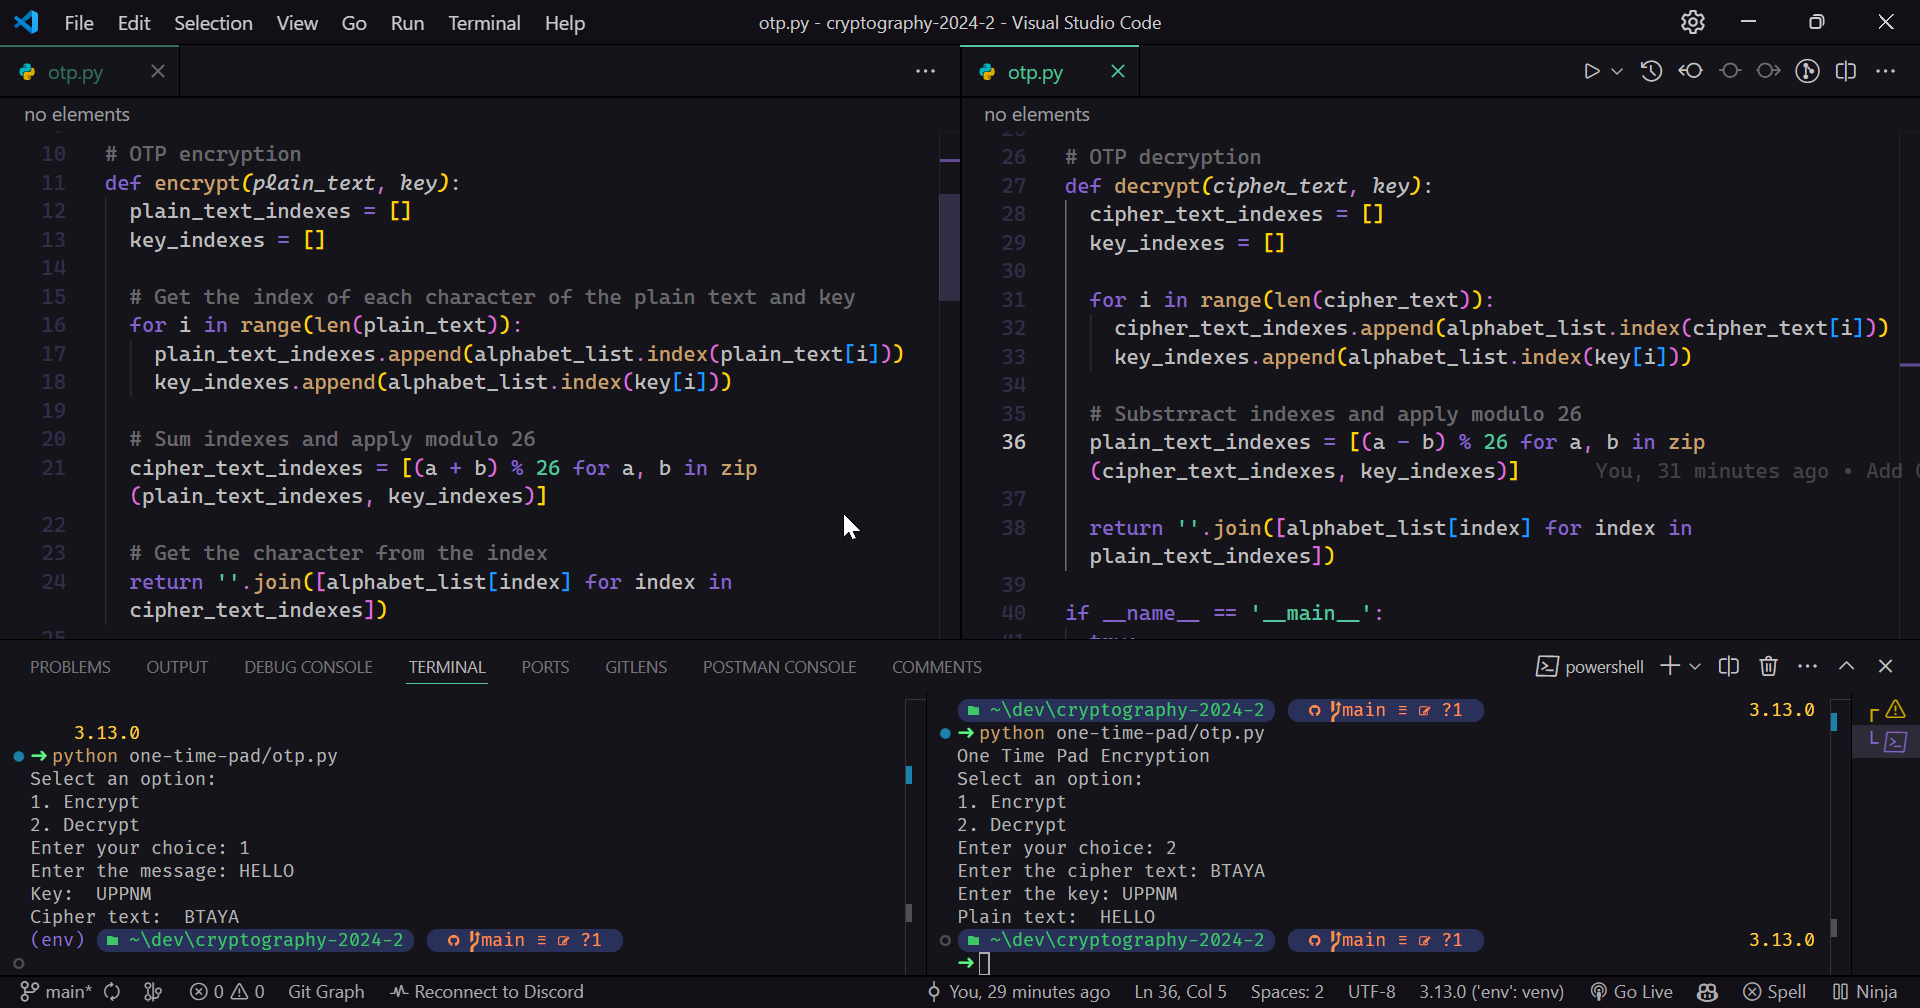
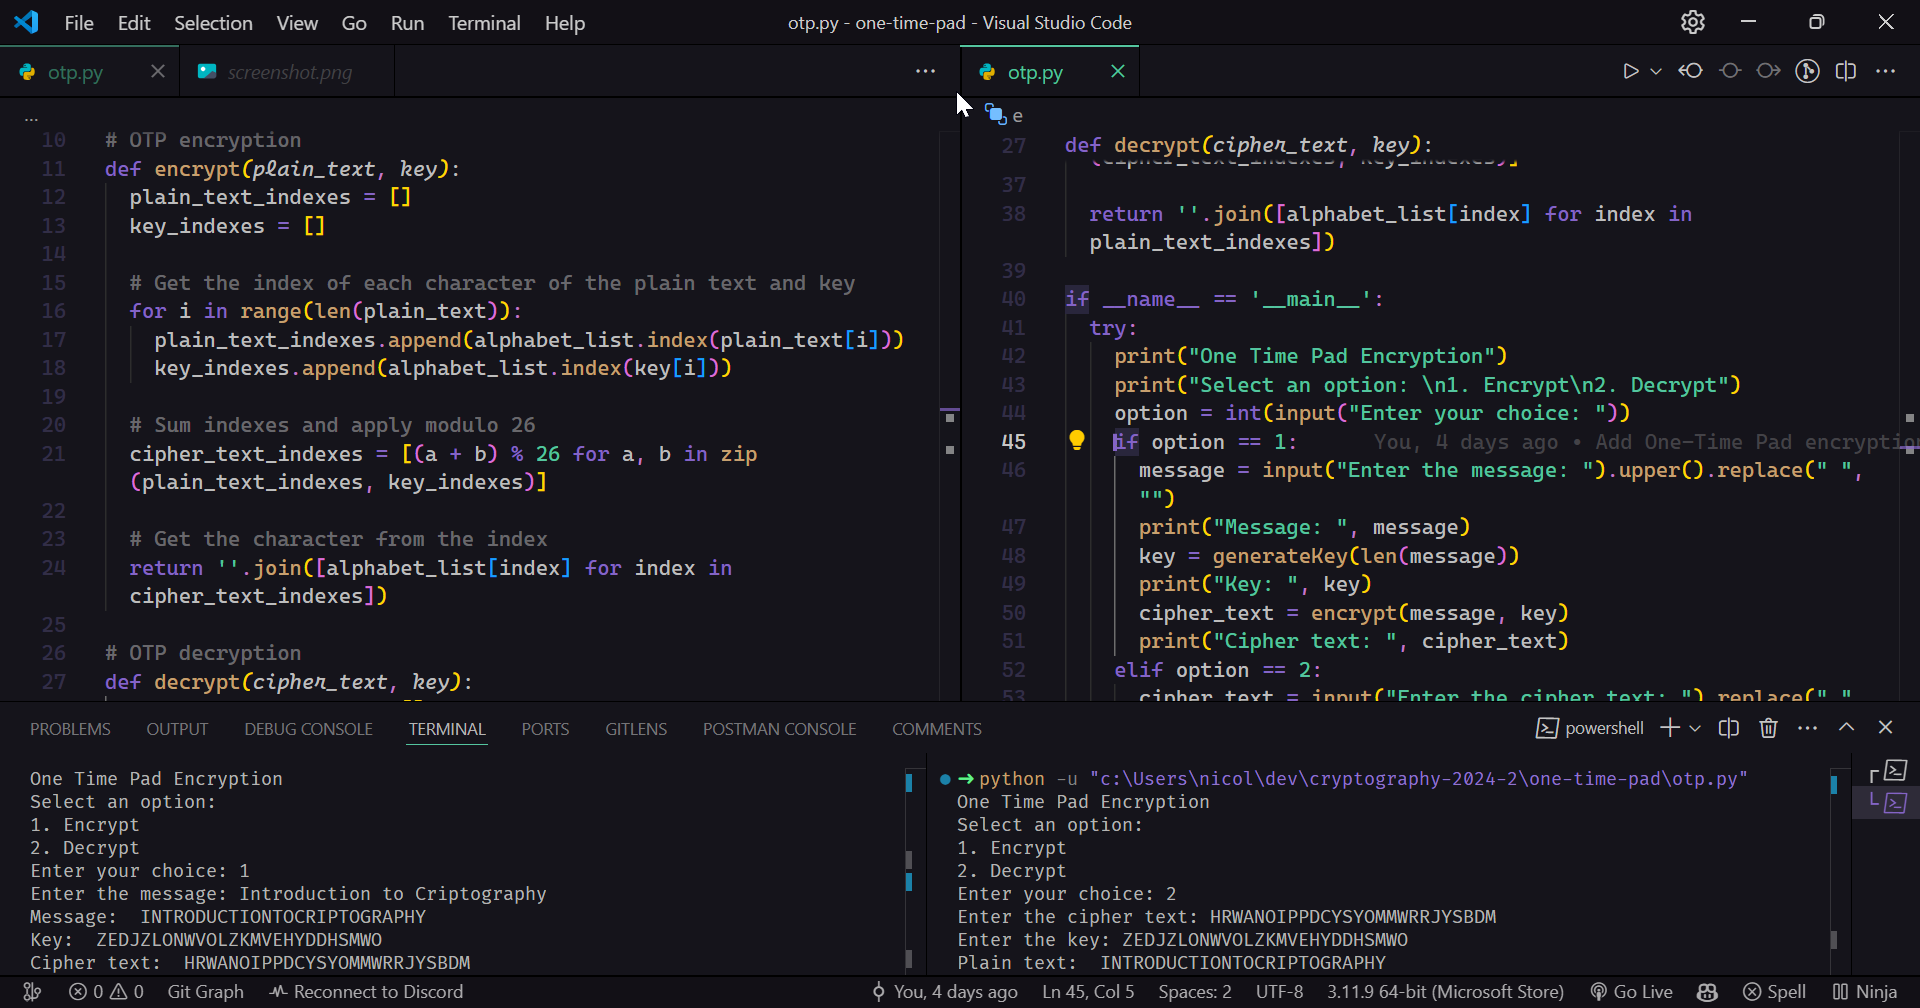
fix: remove spaces from input messages and keys in OTP implementation

diff --git a/one-time-pad/otp.py b/one-time-pad/otp.py
@@ -43,14 +43,15 @@ if __name__ == '__main__':
     print("Select an option: \n1. Encrypt\n2. Decrypt")
     option = int(input("Enter your choice: "))
     if option == 1:
-      message = input("Enter the message: ").upper()
+      message = input("Enter the message: ").upper().replace(" ", "")
+      print("Message: ", message)
       key = generateKey(len(message))
       print("Key: ", key)
       cipher_text = encrypt(message, key)
       print("Cipher text: ", cipher_text)
     elif option == 2:
-      cipher_text = input("Enter the cipher text: ")
-      key = input("Enter the key: ")
+      cipher_text = input("Enter the cipher text: ").replace(" ", "")
+      key = input("Enter the key: ").replace(" ", "")
       plain_text = decrypt(cipher_text, key)
       print("Plain text: ", plain_text)
     else:
